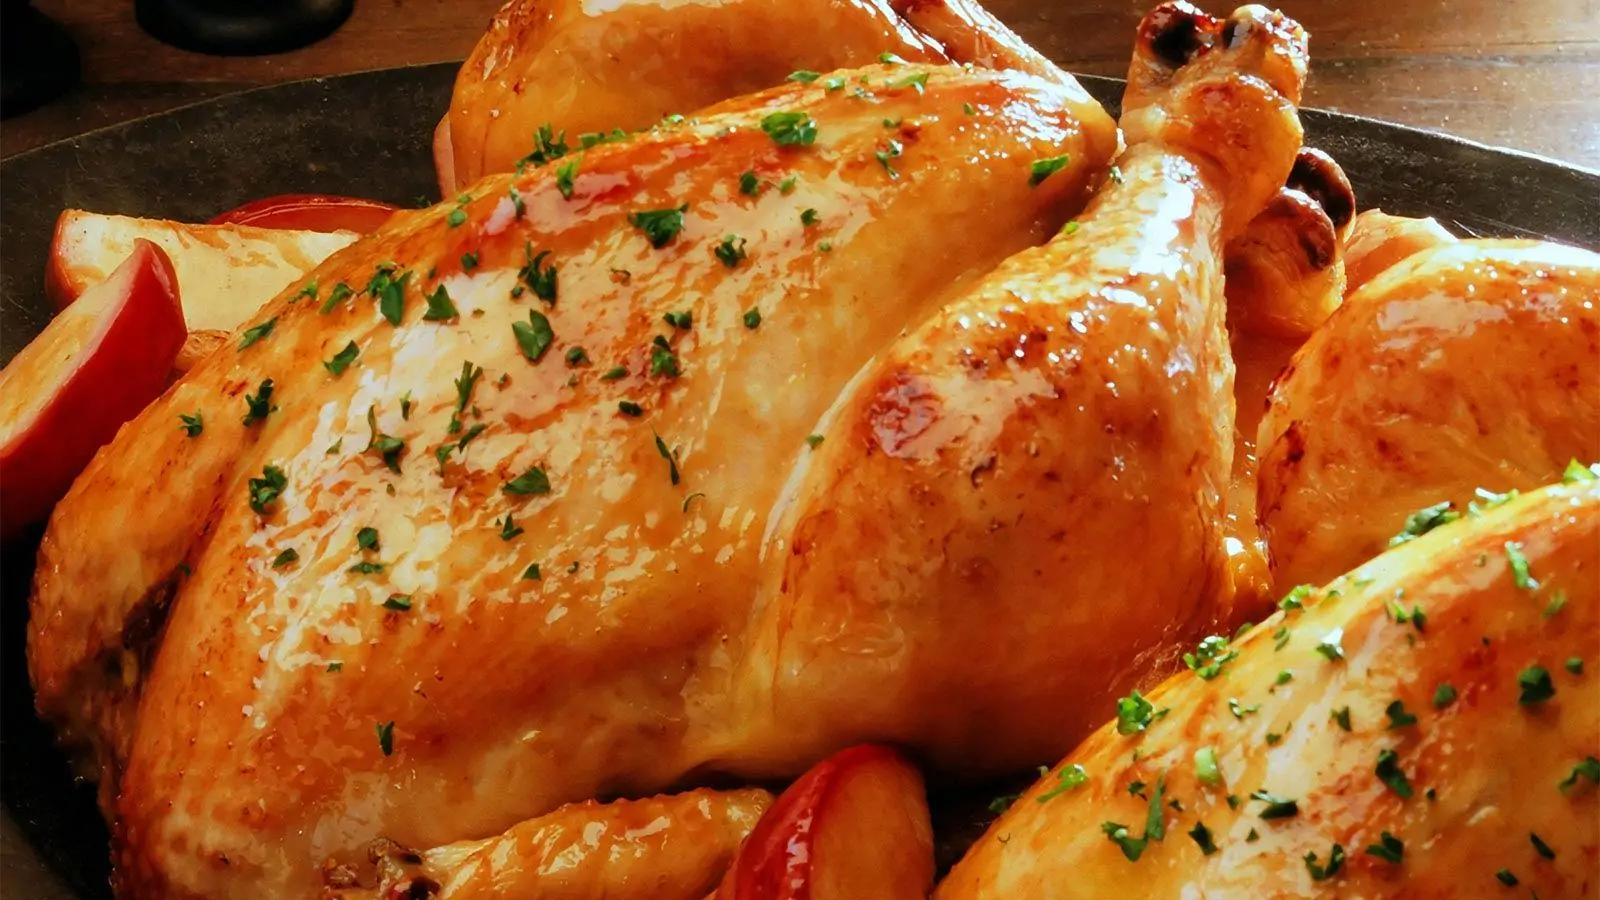
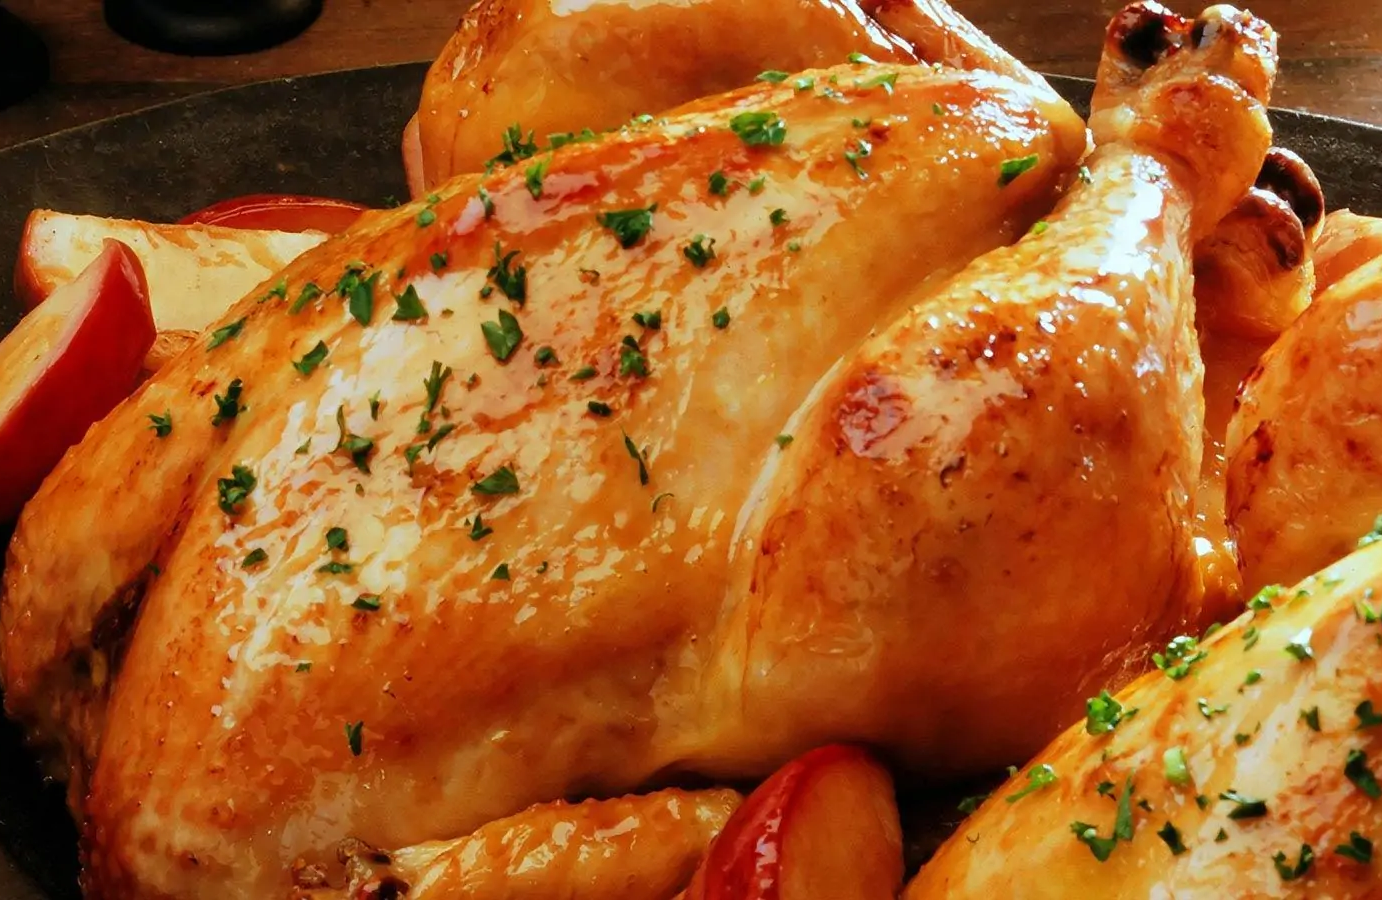
mudanças que não serviram de nada

diff --git a/index.html b/index.html
@@ -25,23 +25,22 @@
         </div>
 
 <!-- ---------------HARMONIA--------------- -->
+        <h1>Harmonias</h1>        
         <div class="harmonias">
-            <h1>Harmonias</h1>
-
             <div class="harmonias-carnes">
-                <img src="img/carne.png" alt="">
+                <img class="harmonias-img" src="img/carne.png" alt="">
                 <h4>Carnes</h4>
             </div4>
-            <div c4ass="harmo4ias-aves">
-                <i4g src="img4frango.png" alt="">
+            <div class="harmonias-aves">
+                <img class="harmonias-img" src="img/frango.png" alt="">
                 <h4>Aves</h4>
             </div4>
-            <div c4ass="harmo4ias-peixes">
-                <i4g src="img4peixe.png" alt="">
+            <div class="harmonias-peixe">
+                <img class="harmonias-img" src="img/peixe.png" alt="">
                 <h4>Peixes</h4>
             </div4>
-            <div c4ass="harmonias-doces">
-                <i4g src="img/doce.png" alt="">
+            <div class="harmonias-doce">
+                <img class="harmonias-img" src="img/doce.png" alt="">
                 <h4>Doces</h4>
             </div>
         </div>

diff --git a/css/style.css b/css/style.css
@@ -46,4 +46,21 @@ a{
     width: 1900px;
 }
 
-/*-------------------BANNER-------------------*/
+/*-------------------HARMONIA-------------------*/
+h1{
+    text-align: center;
+    margin-top: 15px;
+}
+.harmonias{
+    
+    display: flex;
+    justify-content: center;
+    
+}
+
+
+.harmonias-img{
+    width: 150px;
+    height: 150px;
+    border-radius: 50%;
+}
